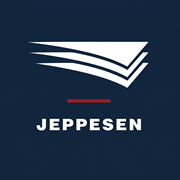
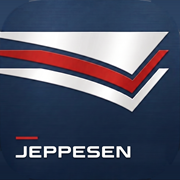
앱 아이콘을 새 Jeppesen 그림으로 교체 (오른쪽 아래 반짝이 표시 제거)

diff --git a/sw.js b/sw.js
@@ -4,7 +4,7 @@
 
 /* ★★ 앱을 고쳐서 다시 올릴 때는 아래 번호를 1 올릴 것 (ncv-v1 → ncv-v2).
        안 올리면 아이패드가 예전 화면을 계속 쓴다. ★★ */
-const CACHE = 'ncv-v53';  // v53: 백업 되돌리기를 묶음마다 꺼내 넣기, 같은 차트 건너뛰기
+const CACHE = 'ncv-v54';  // v54: 앱 아이콘을 새 Jeppesen 그림으로 교체
 // (예: ILS DA(H) 238 ft (200 ft)) (2026-08-08)
 
 const APP_FILES = [
